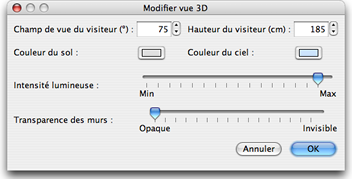
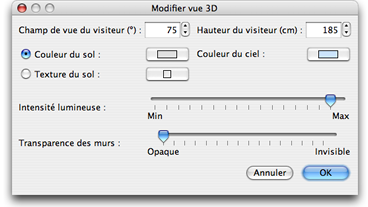
Updated help pages for version 1.2
git-svn-id: https://svn.code.sf.net/p/sweethome3d/code/trunk@985 03e323e1-6c6c-46a5-9f71-c4ce5d8c6204

Changed region(s): [[0.0, 0.0, 1.0, 1.0]]

diff --git a/SweetHome3D/src/com/eteks/sweethome3d/swing/resources/help/fr/editingWalls.html b/SweetHome3D/src/com/eteks/sweethome3d/swing/resources/help/fr/editingWalls.html
@@ -62,14 +62,14 @@
           <tr valign="top">
             <td nowrap><p>3.</p>
             </td>
-            <td><p>L'indicateur d'arriv&eacute;e du mur indique &agrave;  quel point se termine un mur.</p>
+            <td><p>L'indicateur de fin du mur indique &agrave;  quel point se termine un mur.</p>
             </td>
           </tr>
           <tr valign="top">
             <td nowrap><p>4.</p>
             </td>
-            <td><p>L'indicateur de taille du point d'arriv&eacute;e montre le point que vous pouvez glisser-d&eacute;poser
-                pour d&eacute;placer le point d'arriv&eacute;e du mur.</p>
+            <td><p>L'indicateur de taille du point de fin montre le point que vous pouvez glisser-d&eacute;poser
+                pour d&eacute;placer le point de fin du mur.</p>
             </td>
           </tr>
         </table>
@@ -79,17 +79,20 @@
 </div>
 <table width="100%" border="0" cellspacing="0" cellpadding="3">
   <tr>
-    <td><p>Quand le pointeur de la souris survole sur le point de d&eacute;part ou d'arriv&eacute;e du mur s&eacute;lectionn&eacute;,
+    <td><p>Quand le pointeur de la souris survole  le point de d&eacute;part ou de fin du mur s&eacute;lectionn&eacute;,
         celui-ci change d'aspect pour indiquer que vous pouvez glisser-d&eacute;poser ce point pour le d&eacute;placer.
         Pendant que vous appuyez sur le bouton de la souris, une info-bulle indique la longueur du mur.<br>
         Les murs modifi&eacute;s avec la souris sont dessin&eacute;s simultan&eacute;ment dans le plan et la vue 3D. </p>
         <p>Un mur peut &ecirc;tre aussi modifi&eacute;  gr&acirc;ce &agrave; son panneau, en double-cliquant sur ce mur
           dans le plan du logement, ou en choisissant <i>Plan
           &gt; Modifier les murs...</i> apr&egrave;s l'avoir s&eacute;lectionn&eacute;.</p>
-        <p align="center"><img src="images/editingWalls.png" width="301" height="264"></p>
-        <p>Dans le panneau du mur, vous pouvez modifier les coordonn&eacute;es de ses points de d&eacute;part et d'arriv&eacute;e,
-          les couleurs des ses c&ocirc;t&eacute;s gauche et droit, son &eacute;paisseur et sa hauteur.<br>
-          Utilisez les indicateurs de d&eacute;part et d'arriv&eacute;e dessin&eacute;s dans le plan sur chaque mur s&eacute;lectionn&eacute;  pour
+        <p align="center"><img src="images/editingWalls.png" width="323" height="369"></p>
+        <p>Dans le panneau du mur, vous pouvez modifier les coordonn&eacute;es de ses points de d&eacute;part et de fin,
+          les couleurs ou les textures de ses c&ocirc;t&eacute;s gauche et droit, son &eacute;paisseur et sa hauteur.<br>
+          Si c'est un mur inclin&eacute; d'un sous-pente
+          , choisissez des hauteurs diff&eacute;rentes &agrave; ses points de d&eacute;part et de fin, et assurez-vous que
+          le bouton radio <i>Mur inclin&eacute;</i> est s&eacute;lectionn&eacute;.<br>
+          Utilisez les indicateurs de d&eacute;part et de fin dessin&eacute;s dans le plan sur chaque mur s&eacute;lectionn&eacute;  pour
           distinguer son c&ocirc;t&eacute; gauche de son c&ocirc;t&eacute; droit.</p>
       </td>
   </tr>

diff --git a/SweetHome3D/src/com/eteks/sweethome3d/swing/resources/help/fr/drawingWalls.html b/SweetHome3D/src/com/eteks/sweethome3d/swing/resources/help/fr/drawingWalls.html
@@ -33,7 +33,7 @@
         les murs                                                                                                                                                                                                                                                                                                                                                                                                                                                                                                                                                                                                                                                                                                                                                                                                                                                                                                                                                                                                                                       </i></p>
 	    </blockquote>	  
 	  <p>Cliquez dans le plan du logement au point de d&eacute;part du nouveau mur,
-	    puis cliquez ou double-cliquez dans le plan &agrave; son point d'arriv&eacute;e.
+	    puis cliquez ou double-cliquez dans le plan &agrave; son point de fin.
 	    Tant que vous ne double-cliquez pas ou que vous n'appuyez pas sur la touche Echap, chaque nouveau clic d&eacute;signe
 	    le point oppos&eacute; du mur en cours de cr&eacute;ation et le point de d&eacute;part du mur suivant. Pendant le dessin
 	    d'un ensemble de murs, l'extr&eacute;mit&eacute; de d&eacute;part du premier mur sera attach&eacute;e &agrave; l'extr&eacute;mit&eacute; d'un
@@ -96,7 +96,7 @@
         </td>
         <td>
           <p>Une fois qu'un mur est cr&eacute;&eacute;, vous pouvez<a href=editingWalls.html"> changer</a> sa position,
-            sa longueur, son &eacute;paisseur, sa hauteur et ses couleurs.</p>
+            sa longueur, son &eacute;paisseur, sa hauteur, ses couleurs ou les textures qui y sont appliqu&eacute;es.</p>
         </td>
 	    </tr>
 	  <tr valign="top">

diff --git a/SweetHome3D/src/com/eteks/sweethome3d/swing/resources/help/en/editingWalls.html b/SweetHome3D/src/com/eteks/sweethome3d/swing/resources/help/en/editingWalls.html
@@ -82,11 +82,13 @@
         <p>A wall may also be  edited thanks to its pane, by double-clicking on that wall in home plan, or by choosing <i>Plan &gt; Modify
             walls...</i> after
           selecting it.</p>
-        <p align="center"><img src="images/editingWalls.png" width="300" height="264"></p>
-        <p>In the wall pane, you may change&nbsp;the coordinates of its start and end point, the colors of its left and right
-          sides, its thickness and its height.<br>
-          Use the wall start and wall end indicators drawn in plan on each selected wall  to distinguish its left side from
-          its right side.</p>
+        <p align="center"><img src="images/editingWalls.png" width="302" height="367"></p>
+        <p>In the wall pane, you may change&nbsp;the coordinates of its start and end points, the colors or the textures
+          of its left and right sides, its thickness and its height.<br>
+          If it's a sloping wall of a garret, choose different heights at its start and  end points, and ensure
+          yourself that the <i>Sloping wall</i> radio button is selected.<br>
+          Use the wall start and wall end indicators drawn in plan on each selected wall  to distinguish its left side
+          from its right side.</p>
       </td>
   </tr>
 </table>

diff --git a/SweetHome3D/src/com/eteks/sweethome3d/swing/resources/help/en/tips.html b/SweetHome3D/src/com/eteks/sweethome3d/swing/resources/help/en/tips.html
@@ -137,6 +137,14 @@
                                   divide it in multiple segments at its <a href="drawingWalls.html">creation</a>. </P>
                               </TD>
 						  </TR>
+							<TR VALIGN="top">
+                              <td><p>&#149;</p>
+                              </td>
+                              <TD>
+                                <P>To build the sloping walls of a garret, <a href="editingWalls.html">choose</a> different
+                                  heights at theirs start and end points.</P>
+                              </TD>
+						  </TR>
 						  <TR VALIGN="top">
                               <td width="16"><p>&#149;</p></td>
                               <TD>
@@ -174,8 +182,8 @@
 							<tr valign="top">
 								<td width="16"><p>&#149;</p></td>
 								<td>
-									<p>If you want to align a set of pieces of furniture, select these pieces and choose one of the <i>Furniture &gt; Align</i> menus.
-								  Furniture are aligned on the first selected piece.</p>
+									<p>If it's a sloping wall of a garret, choose different heights at its start and end points, and ensure yourself
+								  that the Sloping wall radio button is selected.</p>
 							  </td>
 							</tr>
 							<TR VALIGN="top">

diff --git a/SweetHome3D/src/com/eteks/sweethome3d/swing/resources/help/fr/editing3DView.html b/SweetHome3D/src/com/eteks/sweethome3d/swing/resources/help/fr/editing3DView.html
@@ -101,9 +101,10 @@
         glissez-d&eacute;posez le, ou s&eacute;lectionnez le et appuyez sur les  fl&egrave;ches du clavier. </p>
         <p>D'autres attributs de la vue  3D peuvent &ecirc;tre modifi&eacute;s en choisissant <i>Vue
             3D &gt; Modifier...</i>.</p>
-        <p align="center"><img src="images/editing3DView.png" width="352" height="179"></p>
+        <p align="center"><img src="images/editing3DView.png" width="368" height="207"></p>
         <p>Dans le panneau de la vue 3D, vous pouvez modifier le champ de vue du visiteur virtuel, sa hauteur,
-          la couleur du sol et du ciel (ou du plafond), l'intensit&eacute; de la lumi&egrave;re et la transparence des murs.<br>
+          la couleur du sol et du ciel (ou du plafond), la texture du sol, l'intensit&eacute; de la lumi&egrave;re et la
+          transparence des murs.<br>
         L'&eacute;l&eacute;vation du point du vue du visiteur virtuel est &eacute;gale aux 13/14 de sa hauteur selon les proportions d'un adulte
         humain.</p>
       </td>

diff --git a/SweetHome3D/src/com/eteks/sweethome3d/swing/resources/help/en/editing3DView.html b/SweetHome3D/src/com/eteks/sweethome3d/swing/resources/help/en/editing3DView.html
@@ -99,9 +99,9 @@
         it and press the keyboard arrows. </p>
         <p>Other attributes of the 3D view may be edited  by choosing <i>3D
           view &gt; Modify...</i>.</p>
-        <p align="center"><img src="images/editing3DView.png" width="300" height="179"></p>
+        <p align="center"><img src="images/editing3DView.png" width="318" height="204"></p>
         <p>In the 3D view pane, you may change&nbsp;the virtual visitor field of view, its height, the ground and
-          sky (or ceiling) color, the light brightness and walls transparency.<br>
+          sky (or ceiling) color, the ground texture, the light brightness and walls transparency.<br>
           The elevation of the virtual visitor point of view is equal to 13/14 of its height to respect adult human proportions.</p>
       </td>
   </tr>

diff --git a/SweetHome3D/src/com/eteks/sweethome3d/swing/resources/help/fr/tips.html b/SweetHome3D/src/com/eteks/sweethome3d/swing/resources/help/fr/tips.html
@@ -146,6 +146,14 @@
                               </TD>
 						  </TR>
 							<TR VALIGN="top">
+                              <td><p>&#149;</p>
+                              </td>
+                              <TD>
+                                <P>Pour construire les murs inclin&eacute;s d'un sous-pente, <a href="editingWalls.html">choisissez</a> des
+                                  hauteurs diff&eacute;rentes &agrave; leurs points de d&eacute;part et de fin.</P>
+                              </TD>
+						  </TR>
+							<TR VALIGN="top">
                               <td width="16"><p>&#149;</p></td>
                               <TD>
                                 <P>Quand vous choisissez <i>Edition &gt; Copier</i> or <i>Edition &gt; Couper</i>, les objets

diff --git a/SweetHome3D/src/com/eteks/sweethome3d/swing/resources/help/fr/editingDimensions.html b/SweetHome3D/src/com/eteks/sweethome3d/swing/resources/help/fr/editingDimensions.html
@@ -69,9 +69,9 @@
           <tr valign="top">
             <td nowrap><p>3.</p>
             </td>
-            <td><p>L'indicateur de taille du point d'arriv&eacute;e montre le point et la ligne d'extension que vous pouvez
+            <td><p>L'indicateur de taille du point de fin montre le point et la ligne d'extension que vous pouvez
                 glisser-d&eacute;poser
-                pour d&eacute;placer le point d'arriv&eacute;e de la cote.</p>
+                pour d&eacute;placer le point de fin de la cote.</p>
             </td>
           </tr>
         </table>

diff --git a/SweetHome3D/src/com/eteks/sweethome3d/swing/resources/help/en/drawingWalls.html b/SweetHome3D/src/com/eteks/sweethome3d/swing/resources/help/en/drawingWalls.html
@@ -96,7 +96,7 @@
         </td>
         <td>
           <p>Once a wall is created, you may <a href=editingWalls.html">change</a> its location, its length, its thickness,
-            its height and its colors.</p>
+            its height,  its colors or  its textures.</p>
         </td>
 	    </tr>
 	  <tr valign="top">
